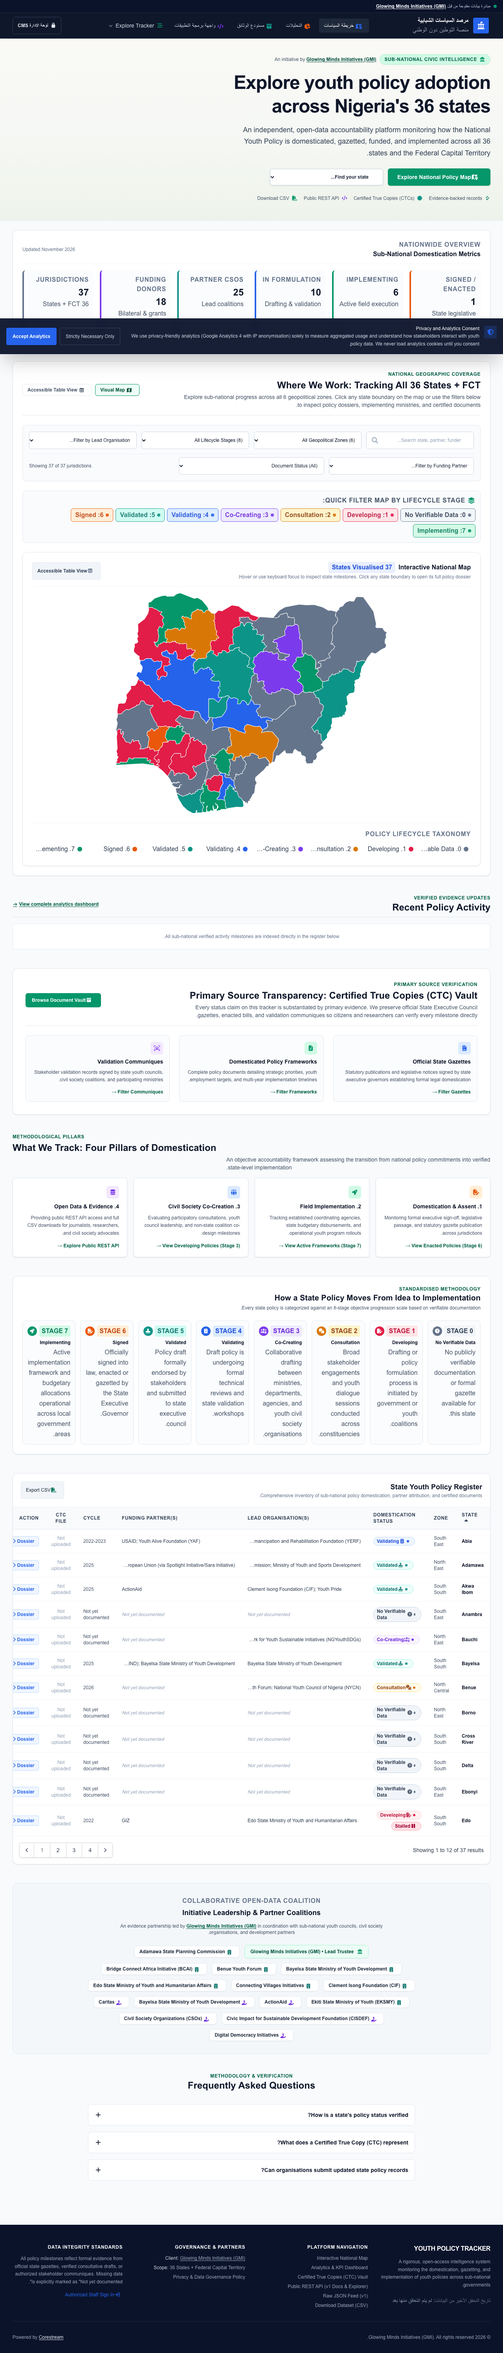
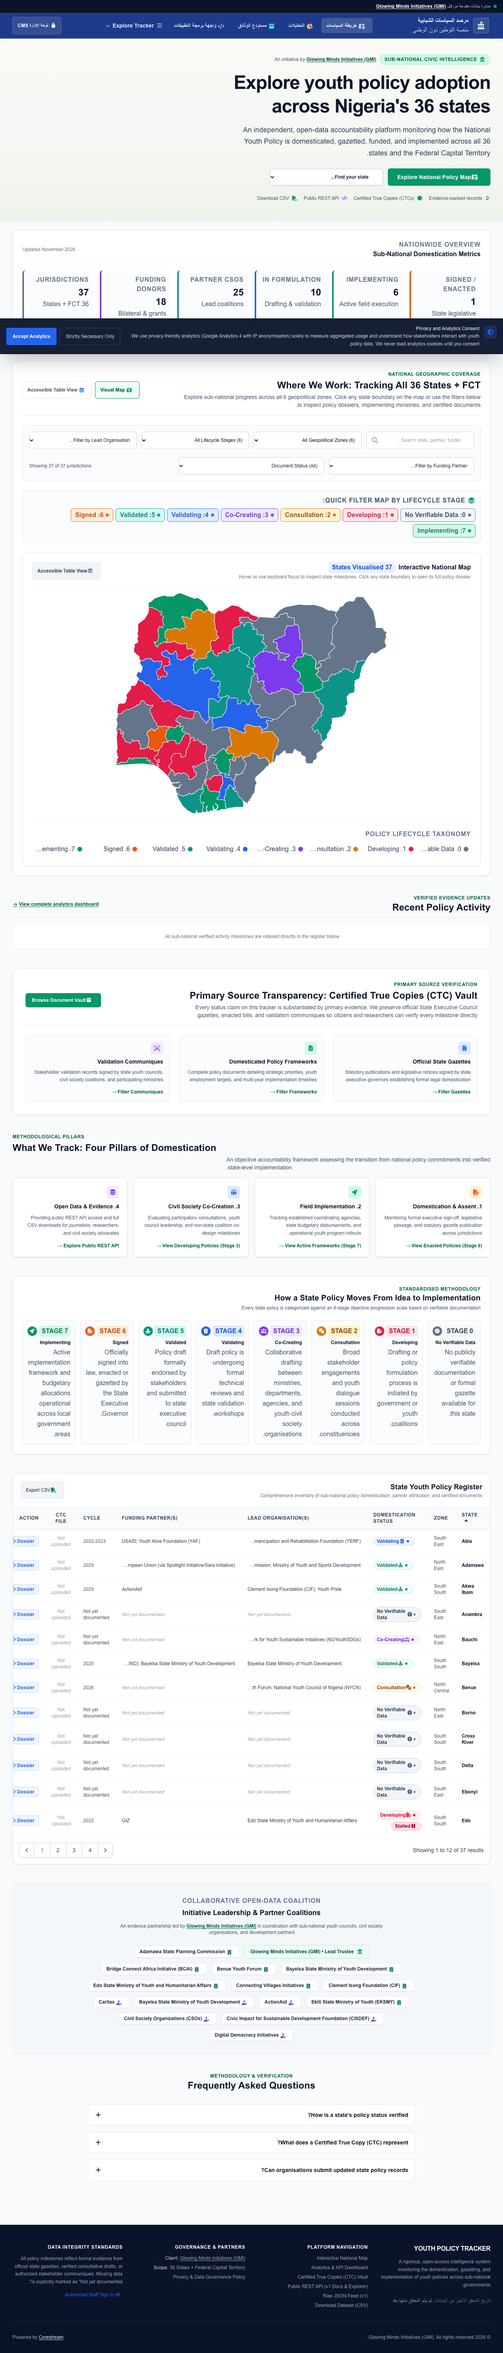
feat(landing): apply royal blue top nav and resolve mobile navigation and view gaps

Changed region(s): [[0.0, 0.0, 1.0, 0.0311]]

diff --git a/resources/css/app.css b/resources/css/app.css
@@ -60,6 +60,11 @@
   --color-brand-slate: #64748B;
   --color-brand-slate-text: #334155;
 
+  --color-navy-royal: #1E3A8A;
+  --color-navy-royal-hover: #1D4ED8;
+  --color-navy-royal-active: #172554;
+  --color-navy-royal-border: #1E40AF;
+
   --font-display: 'Plus Jakarta Sans', system-ui, -apple-system, sans-serif;
   --font-sans: 'Figtree', system-ui, -apple-system, sans-serif;
 }

diff --git a/resources/views/layouts/app.blade.php b/resources/views/layouts/app.blade.php
@@ -45,36 +45,36 @@
         </div>
     </div>
 
-    <!-- Main Navigation Header -->
-    <header class="bg-ink-900 text-white sticky top-0 z-40 border-b border-ink-800 shadow-sm" x-data="{ mobileMenuOpen: false, langOpen: false, megaOpen: false, mobileZonesOpen: false, mobileStagesOpen: false }">
+    <!-- Main Navigation Header (Mature Royal Blue Option A) -->
+    <header class="bg-navy-royal text-white sticky top-0 z-40 border-b border-white/10 shadow-sm" x-data="{ mobileMenuOpen: false, langOpen: false, megaOpen: false, mobileZonesOpen: false, mobileStagesOpen: false }">
         <div class="max-w-7xl mx-auto px-4 sm:px-6 lg:px-8">
             <div class="flex justify-between items-center h-16">
                 <!-- Brand / Logo -->
                 <div class="flex items-center gap-3">
-                    <a href="/" class="flex items-center gap-3 focus:outline-none focus:ring-2 focus:ring-brand-blue rounded p-1">
-                        <div class="w-10 h-10 rounded bg-brand-blue flex items-center justify-center text-white shadow font-bold text-lg">
-                            <i class="fas fa-landmark-flag"></i>
+                    <a href="/" class="flex items-center gap-3 focus:outline-none focus-visible:ring-2 focus-visible:ring-white rounded p-1">
+                        <div class="w-10 h-10 rounded bg-white/10 border border-white/20 flex items-center justify-center text-white shadow font-bold text-lg">
+                            <i class="fas fa-landmark-flag text-white"></i>
                         </div>
                         <div>
                             <span class="block text-base font-bold tracking-tight text-white font-heading">{{ __('tracker.app_name') }}</span>
-                            <span class="block text-2xs uppercase tracking-wider text-ink-400">{{ __('tracker.tagline') }}</span>
+                            <span class="block text-2xs uppercase tracking-wider text-blue-100/90">{{ __('tracker.tagline') }}</span>
                         </div>
                     </a>
                 </div>
 
                 <!-- Desktop Navigation Links -->
                 <nav class="hidden md:flex items-center space-x-1" aria-label="Main Navigation">
-                    <a href="/" class="px-3 py-2 rounded text-sm font-medium transition {{ request()->is('/') && !request()->has('view') ? 'bg-ink-800 text-white' : 'text-ink-300 hover:text-white hover:bg-ink-800' }}">
-                        <i class="fas fa-map-location-dot mr-1.5 text-brand-blue"></i> {{ __('tracker.nav_map') }}
+                    <a href="/" class="px-3 py-2 rounded text-sm font-semibold transition focus-visible:outline-none focus-visible:ring-2 focus-visible:ring-white focus-visible:ring-offset-2 focus-visible:ring-offset-navy-royal {{ request()->is('/') && !request()->has('view') ? 'bg-white/15 text-white ring-1 ring-white/20 shadow-2xs' : 'text-blue-100 hover:text-white hover:bg-white/10' }}">
+                        <i class="fas fa-map-location-dot mr-1.5 text-blue-200"></i> {{ __('tracker.nav_map') }}
                     </a>
-                    <a href="/dashboard" class="px-3 py-2 rounded text-sm font-medium transition {{ request()->is('dashboard*') ? 'bg-ink-800 text-white' : 'text-ink-300 hover:text-white hover:bg-ink-800' }}">
-                        <i class="fas fa-chart-pie mr-1.5 text-brand-orange"></i> {{ __('tracker.nav_analytics') }}
+                    <a href="/dashboard" class="px-3 py-2 rounded text-sm font-semibold transition focus-visible:outline-none focus-visible:ring-2 focus-visible:ring-white focus-visible:ring-offset-2 focus-visible:ring-offset-navy-royal {{ request()->is('dashboard*') ? 'bg-white/15 text-white ring-1 ring-white/20 shadow-2xs' : 'text-blue-100 hover:text-white hover:bg-white/10' }}">
+                        <i class="fas fa-chart-pie mr-1.5 text-orange-300"></i> {{ __('tracker.nav_analytics') }}
                     </a>
-                    <a href="/documents" class="px-3 py-2 rounded text-sm font-medium transition {{ request()->is('documents*') ? 'bg-ink-800 text-white' : 'text-ink-300 hover:text-white hover:bg-ink-800' }}">
-                        <i class="fas fa-box-archive mr-1.5 text-brand-teal"></i> {{ __('tracker.nav_vault') }}
+                    <a href="/documents" class="px-3 py-2 rounded text-sm font-semibold transition focus-visible:outline-none focus-visible:ring-2 focus-visible:ring-white focus-visible:ring-offset-2 focus-visible:ring-offset-navy-royal {{ request()->is('documents*') ? 'bg-white/15 text-white ring-1 ring-white/20 shadow-2xs' : 'text-blue-100 hover:text-white hover:bg-white/10' }}">
+                        <i class="fas fa-box-archive mr-1.5 text-teal-300"></i> {{ __('tracker.nav_vault') }}
                     </a>
-                    <a href="/api/docs" class="px-3 py-2 rounded text-sm font-medium transition {{ request()->is('api*') ? 'bg-ink-800 text-white' : 'text-ink-300 hover:text-white hover:bg-ink-800' }}">
-                        <i class="fas fa-code mr-1.5 text-brand-violet"></i> {{ __('tracker.nav_api') }}
+                    <a href="/api/docs" class="px-3 py-2 rounded text-sm font-semibold transition focus-visible:outline-none focus-visible:ring-2 focus-visible:ring-white focus-visible:ring-offset-2 focus-visible:ring-offset-navy-royal {{ request()->is('api*') ? 'bg-white/15 text-white ring-1 ring-white/20 shadow-2xs' : 'text-blue-100 hover:text-white hover:bg-white/10' }}">
+                        <i class="fas fa-code mr-1.5 text-violet-300"></i> {{ __('tracker.nav_api') }}
                     </a>
 
                     <!-- Mega Menu Dropdown Trigger -->
@@ -83,15 +83,15 @@
                             type="button"
                             @click="megaOpen = !megaOpen"
                             @click.outside="megaOpen = false"
-                            class="px-3 py-2 rounded text-sm font-medium transition flex items-center gap-1.5 focus-visible:outline-none focus-visible:ring-2 focus-visible:ring-brand-emerald"
-                            :class="megaOpen ? 'bg-white text-ink-950 shadow-md' : 'text-ink-300 hover:text-white hover:bg-ink-800'"
+                            class="px-3 py-2 rounded text-sm font-semibold transition flex items-center gap-1.5 focus-visible:outline-none focus-visible:ring-2 focus-visible:ring-white focus-visible:ring-offset-2 focus-visible:ring-offset-navy-royal"
+                            :class="megaOpen ? 'bg-white text-ink-950 shadow-md ring-1 ring-white/30' : 'text-blue-100 hover:text-white hover:bg-white/10'"
                             :aria-expanded="megaOpen.toString()"
                             aria-haspopup="true"
                             aria-label="Explore Tracker Mega Menu"
                         >
-                            <i class="fas fa-bars-staggered text-brand-emerald"></i>
+                            <i class="fas fa-bars-staggered" :class="megaOpen ? 'text-brand-emerald' : 'text-emerald-300'"></i>
                             <span>Explore Tracker</span>
-                            <i class="fas fa-chevron-down text-[10px] transition-transform duration-200" :class="megaOpen ? 'rotate-180 text-brand-emerald' : 'text-ink-400'"></i>
+                            <i class="fas fa-chevron-down text-[10px] transition-transform duration-200" :class="megaOpen ? 'rotate-180 text-brand-emerald' : 'text-blue-200'"></i>
                         </button>
 
                         <!-- Mega Menu Panel (Bright Scheme) -->
@@ -336,14 +336,14 @@
                     @endif
 
                     <!-- Admin CMS Portal Button -->
-                    <x-button href="/admin" variant="outline" size="sm" icon="fa-lock">
+                    <x-button href="/admin" variant="outline" size="sm" icon="fa-lock" class="!bg-white/10 hover:!bg-white/20 !text-white !border-white/20 focus-visible:!ring-white">
                         {{ __('tracker.nav_admin') }}
                     </x-button>
                 </div>
 
                 <!-- Mobile Menu Button -->
                 <div class="flex items-center md:hidden">
-                    <button type="button" @click="mobileMenuOpen = !mobileMenuOpen" class="p-2 rounded text-ink-400 hover:text-white hover:bg-ink-800 focus:outline-none focus:ring-2 focus:ring-brand-blue" aria-expanded="false">
+                    <button type="button" @click="mobileMenuOpen = !mobileMenuOpen" class="p-2 rounded text-blue-100 hover:text-white hover:bg-white/10 focus:outline-none focus:ring-2 focus:ring-white" aria-expanded="false" aria-label="Toggle navigation menu">
                         <span class="sr-only">Open main menu</span>
                         <i class="fas" :class="mobileMenuOpen ? 'fa-xmark' : 'fa-bars'"></i>
                     </button>
@@ -351,68 +351,68 @@
             </div>
         </div>
 
-        <!-- Mobile Menu Dropdown -->
-        <div x-show="mobileMenuOpen" x-cloak class="md:hidden bg-ink-950 border-b border-ink-800 px-4 pt-2 pb-4 space-y-2">
-            <a href="/" class="block px-3 py-2 rounded text-base font-medium {{ request()->is('/') ? 'bg-ink-800 text-white' : 'text-ink-300 hover:bg-ink-800' }}">
-                <i class="fas fa-map-location-dot mr-2 text-brand-blue"></i> Policy Map
+        <!-- Mobile Menu Dropdown (Royal Blue Theme) -->
+        <div x-show="mobileMenuOpen" x-cloak class="md:hidden bg-navy-royal border-b border-white/10 px-4 pt-2 pb-4 space-y-2">
+            <a href="/" class="block px-3 py-2 rounded text-base font-semibold transition {{ request()->is('/') ? 'bg-white/15 text-white ring-1 ring-white/20 shadow-2xs' : 'text-blue-100 hover:bg-white/10 hover:text-white' }}">
+                <i class="fas fa-map-location-dot mr-2 text-blue-200"></i> Policy Map
             </a>
-            <a href="/dashboard" class="block px-3 py-2 rounded text-base font-medium {{ request()->is('dashboard*') ? 'bg-ink-800 text-white' : 'text-ink-300 hover:bg-ink-800' }}">
-                <i class="fas fa-chart-pie mr-2 text-brand-orange"></i> Analytics
+            <a href="/dashboard" class="block px-3 py-2 rounded text-base font-semibold transition {{ request()->is('dashboard*') ? 'bg-white/15 text-white ring-1 ring-white/20 shadow-2xs' : 'text-blue-100 hover:bg-white/10 hover:text-white' }}">
+                <i class="fas fa-chart-pie mr-2 text-orange-300"></i> Analytics
             </a>
-            <a href="/documents" class="block px-3 py-2 rounded text-base font-medium {{ request()->is('documents*') ? 'bg-ink-800 text-white' : 'text-ink-300 hover:bg-ink-800' }}">
-                <i class="fas fa-box-archive mr-2 text-brand-teal"></i> Document Vault
+            <a href="/documents" class="block px-3 py-2 rounded text-base font-semibold transition {{ request()->is('documents*') ? 'bg-white/15 text-white ring-1 ring-white/20 shadow-2xs' : 'text-blue-100 hover:bg-white/10 hover:text-white' }}">
+                <i class="fas fa-box-archive mr-2 text-teal-300"></i> Document Vault
             </a>
-            <a href="/api/docs" class="block px-3 py-2 rounded text-base font-medium {{ request()->is('api*') ? 'bg-ink-800 text-white' : 'text-ink-300 hover:bg-ink-800' }}">
-                <i class="fas fa-code mr-2 text-brand-violet"></i> Open API
+            <a href="/api/docs" class="block px-3 py-2 rounded text-base font-semibold transition {{ request()->is('api*') ? 'bg-white/15 text-white ring-1 ring-white/20 shadow-2xs' : 'text-blue-100 hover:bg-white/10 hover:text-white' }}">
+                <i class="fas fa-code mr-2 text-violet-300"></i> Open API
             </a>
 
             <!-- Mobile Geopolitical Zones Accordion -->
-            <div class="border-t border-ink-800 pt-2">
+            <div class="border-t border-white/10 pt-2">
                 <button
                     type="button"
                     @click="mobileZonesOpen = !mobileZonesOpen"
-                    class="w-full flex items-center justify-between px-3 py-2 rounded text-sm font-semibold text-ink-200 hover:bg-ink-800"
+                    class="w-full flex items-center justify-between px-3 py-2 rounded text-sm font-semibold text-blue-100 hover:bg-white/10 hover:text-white"
                 >
                     <span class="flex items-center gap-2">
-                        <i class="fas fa-map-location-dot text-brand-blue"></i> Browse by Zone (6)
+                        <i class="fas fa-map-location-dot text-blue-200"></i> Browse by Zone (6)
                     </span>
-                    <i class="fas text-xs" :class="mobileZonesOpen ? 'fa-chevron-up text-brand-emerald' : 'fa-chevron-down text-ink-500'"></i>
+                    <i class="fas text-xs" :class="mobileZonesOpen ? 'fa-chevron-up text-emerald-300' : 'fa-chevron-down text-blue-200'"></i>
                 </button>
                 <div x-show="mobileZonesOpen" x-cloak class="pl-6 pr-2 py-1 space-y-1 text-xs">
-                    <a href="/?zone=North+Central#coverage" class="block py-1 text-ink-300 hover:text-white">North Central</a>
-                    <a href="/?zone=North+East#coverage" class="block py-1 text-ink-300 hover:text-white">North East</a>
-                    <a href="/?zone=North+West#coverage" class="block py-1 text-ink-300 hover:text-white">North West</a>
-                    <a href="/?zone=South+East#coverage" class="block py-1 text-ink-300 hover:text-white">South East</a>
-                    <a href="/?zone=South+South#coverage" class="block py-1 text-ink-300 hover:text-white">South South</a>
-                    <a href="/?zone=South+West#coverage" class="block py-1 text-ink-300 hover:text-white">South West</a>
+                    <a href="/?zone=North+Central#coverage" class="block py-1 text-blue-100/90 hover:text-white">North Central</a>
+                    <a href="/?zone=North+East#coverage" class="block py-1 text-blue-100/90 hover:text-white">North East</a>
+                    <a href="/?zone=North+West#coverage" class="block py-1 text-blue-100/90 hover:text-white">North West</a>
+                    <a href="/?zone=South+East#coverage" class="block py-1 text-blue-100/90 hover:text-white">South East</a>
+                    <a href="/?zone=South+South#coverage" class="block py-1 text-blue-100/90 hover:text-white">South South</a>
+                    <a href="/?zone=South+West#coverage" class="block py-1 text-blue-100/90 hover:text-white">South West</a>
                 </div>
             </div>
 
             <!-- Mobile Stages Accordion -->
-            <div class="border-t border-ink-800 pt-1">
+            <div class="border-t border-white/10 pt-1">
                 <button
                     type="button"
                     @click="mobileStagesOpen = !mobileStagesOpen"
-                    class="w-full flex items-center justify-between px-3 py-2 rounded text-sm font-semibold text-ink-200 hover:bg-ink-800"
+                    class="w-full flex items-center justify-between px-3 py-2 rounded text-sm font-semibold text-blue-100 hover:bg-white/10 hover:text-white"
                 >
                     <span class="flex items-center gap-2">
-                        <i class="fas fa-stairs text-brand-emerald"></i> Lifecycle Stages (8)
+                        <i class="fas fa-stairs text-emerald-300"></i> Lifecycle Stages (8)
                     </span>
-                    <i class="fas text-xs" :class="mobileStagesOpen ? 'fa-chevron-up text-brand-emerald' : 'fa-chevron-down text-ink-500'"></i>
+                    <i class="fas text-xs" :class="mobileStagesOpen ? 'fa-chevron-up text-emerald-300' : 'fa-chevron-down text-blue-200'"></i>
                 </button>
                 <div x-show="mobileStagesOpen" x-cloak class="pl-6 pr-2 py-1 space-y-1 text-xs">
-                    <a href="/?stage=6#coverage" class="flex items-center gap-2 py-1 text-ink-300 hover:text-white"><span class="w-2 h-2 rounded-full bg-brand-orange"></span> Stage 6: Signed</a>
-                    <a href="/?stage=7#coverage" class="flex items-center gap-2 py-1 text-ink-300 hover:text-white"><span class="w-2 h-2 rounded-full bg-brand-emerald"></span> Stage 7: Implementing</a>
-                    <a href="/?stage=5#coverage" class="flex items-center gap-2 py-1 text-ink-300 hover:text-white"><span class="w-2 h-2 rounded-full bg-brand-violet"></span> Stage 5: Validated</a>
-                    <a href="/?stage=4#coverage" class="flex items-center gap-2 py-1 text-ink-300 hover:text-white"><span class="w-2 h-2 rounded-full bg-brand-teal"></span> Stage 4: Validating</a>
-                    <a href="/?stage=3#coverage" class="flex items-center gap-2 py-1 text-ink-300 hover:text-white"><span class="w-2 h-2 rounded-full bg-brand-blue"></span> Stage 3: Developing</a>
-                    <a href="/?stage=2#coverage" class="flex items-center gap-2 py-1 text-ink-300 hover:text-white"><span class="w-2 h-2 rounded-full bg-brand-sunflower"></span> Stage 2: Consultation</a>
-                    <a href="/?stage=0#coverage" class="flex items-center gap-2 py-1 text-ink-300 hover:text-white"><span class="w-2 h-2 rounded-full bg-brand-slate"></span> Stage 0: No Data</a>
+                    <a href="/?stage=6#coverage" class="flex items-center gap-2 py-1 text-blue-100/90 hover:text-white"><span class="w-2 h-2 rounded-full bg-brand-orange"></span> Stage 6: Signed</a>
+                    <a href="/?stage=7#coverage" class="flex items-center gap-2 py-1 text-blue-100/90 hover:text-white"><span class="w-2 h-2 rounded-full bg-brand-emerald"></span> Stage 7: Implementing</a>
+                    <a href="/?stage=5#coverage" class="flex items-center gap-2 py-1 text-blue-100/90 hover:text-white"><span class="w-2 h-2 rounded-full bg-brand-violet"></span> Stage 5: Validated</a>
+                    <a href="/?stage=4#coverage" class="flex items-center gap-2 py-1 text-blue-100/90 hover:text-white"><span class="w-2 h-2 rounded-full bg-brand-teal"></span> Stage 4: Validating</a>
+                    <a href="/?stage=3#coverage" class="flex items-center gap-2 py-1 text-blue-100/90 hover:text-white"><span class="w-2 h-2 rounded-full bg-brand-blue"></span> Stage 3: Developing</a>
+                    <a href="/?stage=2#coverage" class="flex items-center gap-2 py-1 text-blue-100/90 hover:text-white"><span class="w-2 h-2 rounded-full bg-brand-sunflower"></span> Stage 2: Consultation</a>
+                    <a href="/?stage=0#coverage" class="flex items-center gap-2 py-1 text-blue-100/90 hover:text-white"><span class="w-2 h-2 rounded-full bg-brand-slate"></span> Stage 0: No Data</a>
                 </div>
             </div>
 
-            <div class="border-t border-ink-800 pt-2">
-                <a href="/admin" class="block px-3 py-2 rounded text-base font-medium bg-ink-800 text-ink-200">
+            <div class="border-t border-white/10 pt-2">
+                <a href="/admin" class="block px-3 py-2 rounded text-base font-semibold bg-white/10 hover:bg-white/20 text-white border border-white/20 transition">
                     <i class="fas fa-lock mr-2"></i> Admin Portal
                 </a>
             </div>

diff --git a/resources/views/livewire/policy-tracker.blade.php b/resources/views/livewire/policy-tracker.blade.php
@@ -132,23 +132,66 @@
                     </p>
                 </div>
 
-                <!-- View Toggle Buttons -->
-                <div class="flex items-center gap-2 shrink-0">
+                <!-- Desktop View Toggle Buttons (>= md) -->
+                <div class="hidden md:flex items-center gap-2 shrink-0" role="tablist" aria-label="Coverage View Switcher">
                     <button
                         type="button"
+                        role="tab"
+                        aria-selected="{{ $mapView === 'visual' ? 'true' : 'false' }}"
+                        aria-controls="coverage-map-panel"
                         wire:click="toggleMapView('visual')"
-                        class="px-3 py-1.5 rounded-md text-xs font-semibold transition border {{ $mapView === 'visual' ? 'bg-emerald-50 text-emerald-900 border-brand-emerald shadow-2xs' : 'bg-white text-ink-600 border-ink-200 hover:bg-ink-50' }}"
+                        class="px-3 py-1.5 rounded-md text-xs font-semibold transition border touch-target {{ $mapView === 'visual' ? 'bg-emerald-50 text-emerald-900 border-brand-emerald shadow-2xs font-bold' : 'bg-white text-ink-600 border-ink-200 hover:bg-ink-50' }}"
+                        id="desktop-tab-visual"
                     >
-                        <i class="fas fa-map mr-1.5"></i> Visual Map
+                        <i class="fas fa-map mr-1.5 text-brand-emerald"></i> Visual Map
                     </button>
                     <button
                         type="button"
+                        role="tab"
+                        aria-selected="{{ $mapView === 'accessible_table' ? 'true' : 'false' }}"
+                        aria-controls="coverage-table-panel"
                         wire:click="toggleMapView('accessible_table')"
-                        class="px-3 py-1.5 rounded-md text-xs font-semibold transition border {{ $mapView === 'accessible_table' ? 'bg-emerald-50 text-emerald-900 border-brand-emerald shadow-2xs' : 'bg-white text-ink-600 border-ink-200 hover:bg-ink-50' }}"
+                        class="px-3 py-1.5 rounded-md text-xs font-semibold transition border touch-target {{ $mapView === 'accessible_table' ? 'bg-emerald-50 text-emerald-900 border-brand-emerald shadow-2xs font-bold' : 'bg-white text-ink-600 border-ink-200 hover:bg-ink-50' }}"
+                        id="desktop-tab-table"
                     >
-                        <i class="fas fa-table mr-1.5"></i> Accessible Table View
+                        <i class="fas fa-table mr-1.5 text-brand-blue"></i> Accessible Table View
                     </button>
                 </div>
+            </div>
+
+            <!-- Mobile Segmented View Control (< md) Prominent Map / Table Switcher -->
+            <div class="block md:hidden pb-1" role="tablist" aria-label="Coverage View Switcher">
+                <div class="grid grid-cols-2 p-1 bg-ink-100 rounded-lg border border-ink-200/80 text-center">
+                    <button
+                        type="button"
+                        role="tab"
+                        aria-selected="{{ $mapView === 'visual' ? 'true' : 'false' }}"
+                        aria-controls="coverage-map-panel"
+                        wire:click="toggleMapView('visual')"
+                        class="py-2.5 px-3 rounded-md text-xs font-bold transition flex items-center justify-center gap-1.5 touch-target {{ $mapView === 'visual' ? 'bg-white text-emerald-900 shadow-sm border border-emerald-200' : 'text-ink-600 hover:text-ink-900' }}"
+                        id="mobile-tab-visual"
+                    >
+                        <i class="fas fa-map text-brand-emerald"></i>
+                        <span>Visual Map</span>
+                    </button>
+                    <button
+                        type="button"
+                        role="tab"
+                        aria-selected="{{ $mapView === 'accessible_table' ? 'true' : 'false' }}"
+                        aria-controls="coverage-table-panel"
+                        wire:click="toggleMapView('accessible_table')"
+                        class="py-2.5 px-3 rounded-md text-xs font-bold transition flex items-center justify-center gap-1.5 touch-target {{ $mapView === 'accessible_table' ? 'bg-white text-emerald-900 shadow-sm border border-emerald-200' : 'text-ink-600 hover:text-ink-900' }}"
+                        id="mobile-tab-table"
+                    >
+                        <i class="fas fa-table text-brand-blue"></i>
+                        <span>Accessible Table</span>
+                    </button>
+                </div>
+            </div>
+
+            <!-- Screen reader live region announcing view switches -->
+            <div class="sr-only" aria-live="polite">
+                Current coverage view: {{ $mapView === 'visual' ? 'Interactive Visual Map loaded' : 'Accessible Table view loaded' }}
             </div>
 
             <!-- Filter Bar Component -->
@@ -355,14 +398,16 @@
 
             <!-- National Map Visual Anchor -->
             @if($mapView === 'visual')
-                <x-nigeria-map
-                    :states="$filteredStates"
-                    :stages="$stages"
-                    :selectedSlug="$stateDrawerSlug"
-                />
+                <div id="coverage-map-panel" role="tabpanel" aria-labelledby="desktop-tab-visual mobile-tab-visual">
+                    <x-nigeria-map
+                        :states="$filteredStates"
+                        :stages="$stages"
+                        :selectedSlug="$stateDrawerSlug"
+                    />
+                </div>
             @else
                 <!-- Accessible Tabular Alternative for the Map -->
-                <div class="bg-white rounded-xl border border-ink-200 shadow-card p-4 sm:p-6 text-ink-900">
+                <div id="coverage-table-panel" role="tabpanel" aria-labelledby="desktop-tab-table mobile-tab-table" class="bg-white rounded-xl border border-ink-200 shadow-card p-4 sm:p-6 text-ink-900">
                     <div class="flex justify-between items-center mb-4 pb-3 border-b border-ink-100">
                         <div>
                             <h3 class="text-base font-bold text-ink-900 font-heading">Accessible State Policy Summary Table</h3>
@@ -1155,4 +1200,55 @@
             </div>
         </div>
     @endif
+
+    <!-- MOBILE QUICK-JUMP: BACK TO MAP PILL (< md viewport only) -->
+    <div
+        x-data="{
+            visible: false,
+            init() {
+                const target = document.getElementById('coverage');
+                if (!target || typeof IntersectionObserver === 'undefined') return;
+                const observer = new IntersectionObserver((entries) => {
+                    entries.forEach(entry => {
+                        // Visible when user has scrolled past the coverage/map section
+                        this.visible = !entry.isIntersecting && entry.boundingClientRect.top < 0;
+                    });
+                }, { threshold: 0.05 });
+                observer.observe(target);
+            },
+            scrollToMap() {
+                const target = document.getElementById('coverage');
+                if (!target) return;
+                const prefersReduced = window.matchMedia && window.matchMedia('(prefers-reduced-motion: reduce)').matches;
+                const y = target.getBoundingClientRect().top + window.pageYOffset;
+                window.scrollTo({ top: y, behavior: prefersReduced ? 'auto' : 'smooth' });
+                target.scrollIntoView({ behavior: prefersReduced ? 'auto' : 'smooth' });
+                const focusable = target.querySelector('button, input, a');
+                if (focusable) {
+                    focusable.focus({ preventScroll: true });
+                }
+            }
+        }"
+        x-show="visible"
+        x-cloak
+        x-transition:enter="transition ease-out duration-200"
+        x-transition:enter-start="opacity-0 translate-y-3 scale-95"
+        x-transition:enter-end="opacity-100 translate-y-0 scale-100"
+        x-transition:leave="transition ease-in duration-150"
+        x-transition:leave-start="opacity-100 translate-y-0 scale-100"
+        x-transition:leave-end="opacity-0 translate-y-3 scale-95"
+        class="md:hidden fixed bottom-6 right-4 z-40 pb-[env(safe-area-inset-bottom)]"
+        aria-live="polite"
+    >
+        <button
+            type="button"
+            @click="scrollToMap()"
+            class="inline-flex items-center gap-2 px-3.5 py-2.5 rounded-full bg-navy-royal text-white text-xs font-bold shadow-xl border border-white/20 active:scale-95 transition focus-visible:outline-none focus-visible:ring-2 focus-visible:ring-white focus-visible:ring-offset-2 focus-visible:ring-offset-navy-royal touch-target"
+            aria-label="Back to the policy map"
+            id="mobile-back-to-map"
+        >
+            <i class="fas fa-arrow-up text-xs"></i>
+            <span>Back to Map</span>
+        </button>
+    </div>
 </div>
